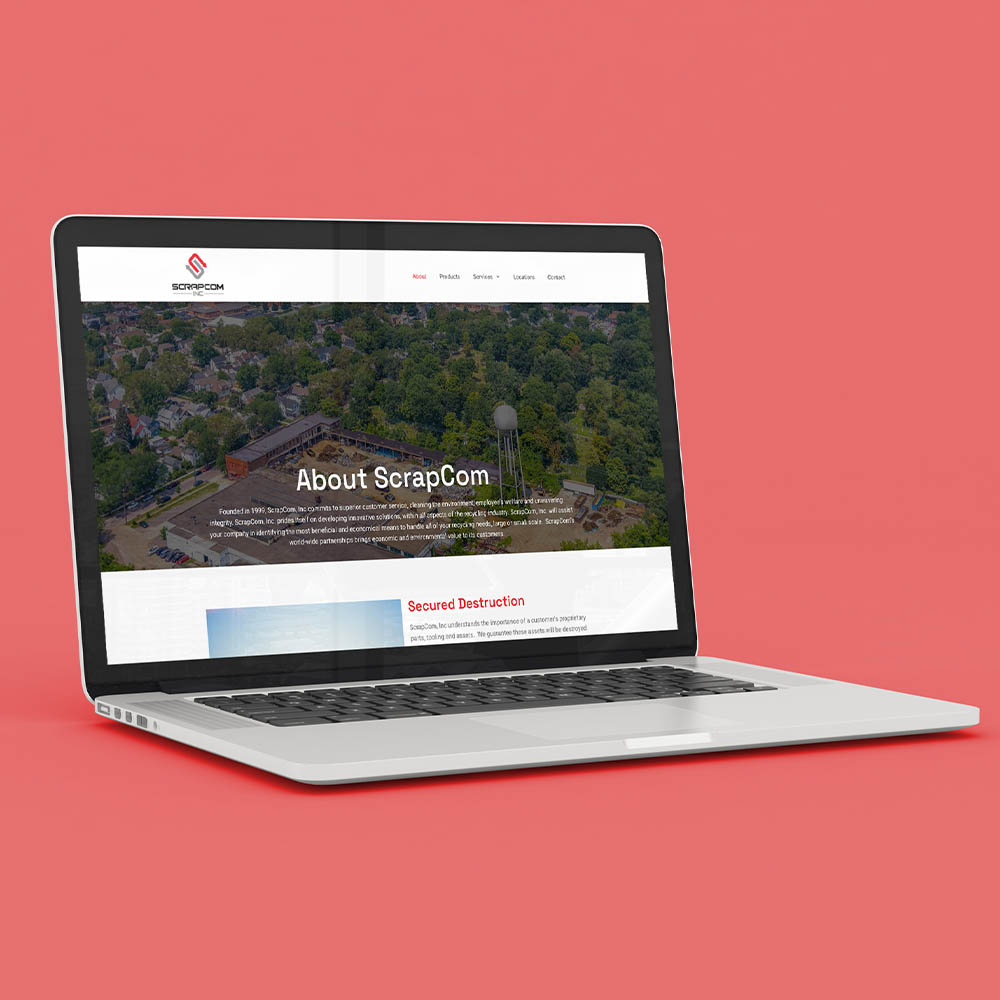
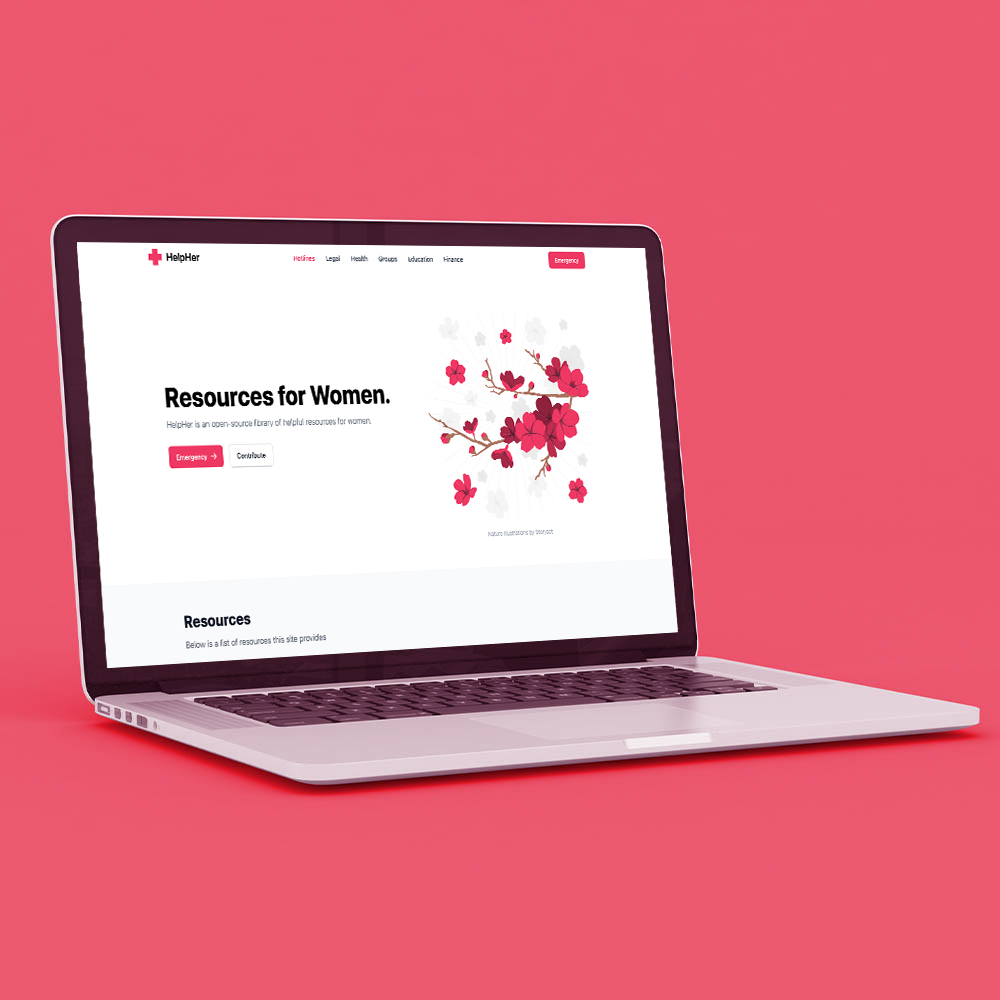
Update picture / text

Changed region(s): [[0.062, 0.217, 0.682, 0.682]]

diff --git a/index.html b/index.html
@@ -32,7 +32,6 @@
         <li><a href="#projects" title="projects">Projects</a></li>
         <li><a href="#about" title="about">About</a></li>
         <li><a href="#contact" title="contact">Contact</a></li>
-        <li><a href="blog.html" title="blog">Blog</a></li>
         <li class="resume" style="display:none;"><a href="NPaolucci_Resume.pdf" target="_blank"
             title="resume">Resume</a></li>
       </ul>
@@ -47,7 +46,7 @@
 
       <svg class="animated" viewBox="0 0 960 200">
         <symbol id="text-animation">
-          <text text-anchor="middle" x="50%" y="80%">Howdy.</text>
+          <text text-anchor="middle" x="50%" y="80%">Welcome</text>
         </symbol>
 
         <g class="animated">
@@ -64,7 +63,7 @@
           <b>I'm Nicholas. I make things.</b>
         </span>
       </h1>
-      <h5>I make websites, designs, logos, videos, music, 3D renders, and more.</h5>
+      <h5>Websites, mostly, but I'm sure I could bake a cake too.</h5>
 
       <div class="mouse">
         <div class="scroll"></div>
@@ -89,6 +88,23 @@
   <!-- Projects -->
   <section id="projects">
     <div class="row">
+
+      <div class="col-md-3 col-sm-6 col-xs-12">
+        <a href="https://helpher.io/" target="_blank" class="project">
+          <img src="img/thumbnails/pt4.jpg" alt="image" class="img-fluid">
+          <div class="project-hover">
+            <div class="project-info">
+              <span>HelpHer Website</span>
+              <em>Web Design / Development</em>
+            </div>
+          </div>
+        </a>
+        <div id="p4" data-fslightbox="p4" style="display:none;">
+          <img src="img/thumbnails/pt4.jpg">
+          <h3>HelpHer</h3>
+          <p>Personal Project</p>
+        </div>
+      </div>
 
       <div class="col-md-3 col-sm-6 col-xs-12">
         <a href="https://teamaftermath.com/" target="_blank" class="project">
@@ -133,23 +149,6 @@
           <img src="img/thumbnails/pt3.jpg">
           <h3>Yoder Graphics Website</h3>
           <p>Website for the company, 2019</p>
-        </div>
-      </div>
-
-      <div class="col-md-3 col-sm-6 col-xs-12">
-        <a href="https://scrapcom.net/" target="_blank" class="project">
-          <img src="img/thumbnails/pt4.jpg" alt="image" class="img-fluid">
-          <div class="project-hover">
-            <div class="project-info">
-              <span>ScrapCom Website</span>
-              <em>Web Design / Development</em>
-            </div>
-          </div>
-        </a>
-        <div id="p4" data-fslightbox="p4" style="display:none;">
-          <img src="img/thumbnails/pt4.jpg">
-          <h3>ScrapCom</h3>
-          <p>Website for the company, 2021</p>
         </div>
       </div>
 
@@ -275,19 +274,13 @@
   <section id="about">
     <div class="container">
       <div class="row">
-        <div class="col-md-6 order-md-2">
-          <img src="img/profile-pic.png" class="img-fluid" alt="Profile Picture" />
+        <div class="col-md-6 order-md-2" style="text-align: right;">
+          <img src="img/profile-pic.jpg" class="img-fluid profile-picture" alt="Profile Picture" />
         </div>
         <div class="col-md-6 order-md-1">
           <h3 class="uppercase">About Me </h3>
-          <h5>My name is Nicholas Paolucci</h5>
-          <p> I'm a <b>Front-End Web Developer with a background in graphic design.</b> I strive to offer intuitive,
-            responsive
-            designs that communicate effectively.
-            I'm a capable and efficient team member who builds genuine relationships with colleagues, clients, and
-            customers.
-            My main interests are in technology, design, and fusing the two to create proficient new <em>"things"</em>.
-            Also, I ought to mention that I have seven siblings, so I am accustomed to group settings.
+          <h5>My name is Nicholas.</h5>
+          <p>I'm working on learning anything in the stack, because I like it all. I have a home server named Heracles. It's sort of like a child, except instead of playing it sits motionless until it's time to work again.
           </p>
 
           <p>I currently have a full-time gig, but I'm always open to hear about new ideas/projects/whatever's on

diff --git a/css/style.css b/css/style.css
@@ -84,13 +84,13 @@ svg .animated {
   fill: none;
   stroke: white;
   stroke-dasharray: 5% 30%;
-  stroke-width: 1px;
+  stroke-width: 2px;
   stroke-dashoffset: 0%;
   animation: stroke-offset 5.5s infinite linear;
 }
 
 .animated-header:nth-child(1){
-stroke: #343434;
+stroke: #6c6c6c;
 animation-delay: -1;
 }
 
@@ -100,12 +100,12 @@ animation-delay: -2s;
 }
 
 .animated-header:nth-child(3){
-stroke: #727272;
+stroke: #b5b5b5;
 animation-delay: -3s;
 }
 
 .animated-header:nth-child(4){
-stroke: #545454;
+stroke: #d6d6d6;
 animation-delay: -4s;
 }
 
@@ -1225,6 +1225,10 @@ textarea:focus {
 .contact-info p {
   display: inline-block;
   margin-right: 20px;
+}
+
+.profile-picture {
+  max-height: 70%;
 }
 
 @media (max-width: 250px) {